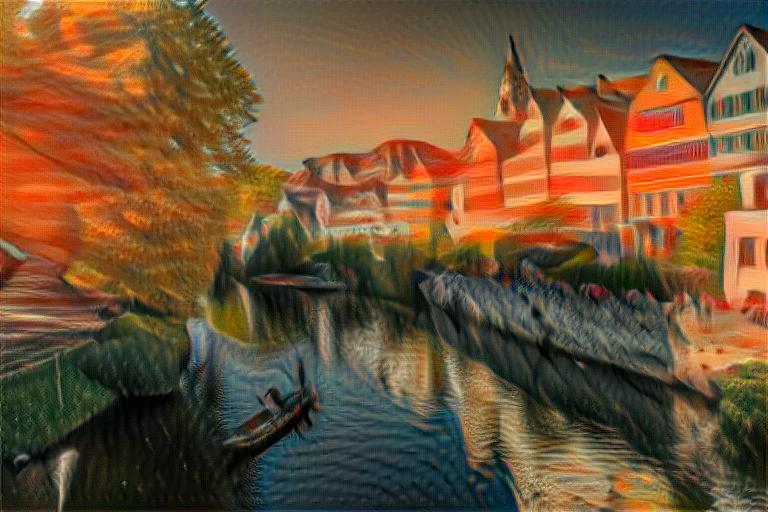
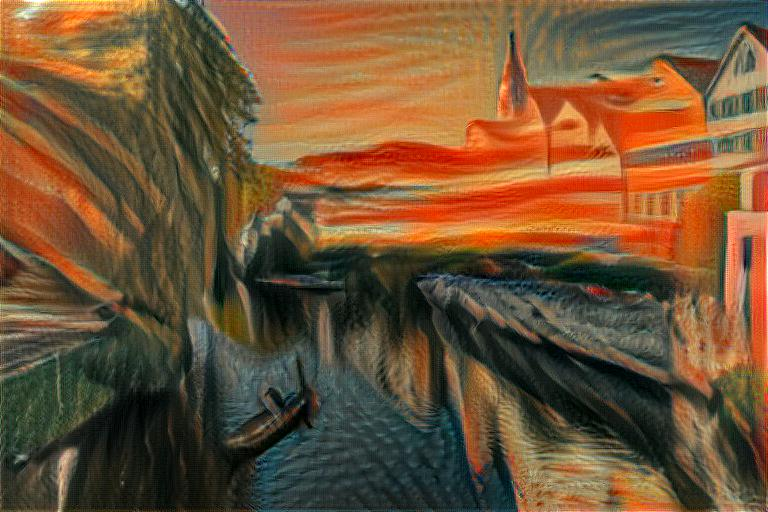
more

diff --git a/assets/rnst/js/banner-slider.js b/assets/rnst/js/banner-slider.js
@@ -1,28 +1,42 @@
 (function() {
 
+// Initialize slider
+var currentStyle = 'starry';
+
+const styleTransferSliderDiv = document.getElementById("banner-slider");
+
+function refreshSlider() {
+  while (styleTransferSliderDiv.firstChild) {
+      styleTransferSliderDiv.removeChild(styleTransferSliderDiv.firstChild);
+  }
+  const imgPath = '/images/rnst/style-transfer/' + 'banner_' + currentStyle + '_robust.jpg';
+  new juxtapose.JXSlider('#banner-slider',
+      [
+          {
+              src: '/images/rnst/style-transfer/banner_scream_nonrobust.jpg',
+              label: 'Non-robust ResNet50'
+          },
+          {
+              src: imgPath,
+              label: 'Robust ResNet50'
+          }
+      ],
+      {
+          animate: true,
+          showLabels: true,
+          showCredits: false,
+          startingPosition: "50%",
+          makeResponsive: true
+  });
+}
+
+refreshSlider();
+
 $("#banner-style-select").imagepicker({
   changed: function(oldVal, newVal, event) {
     currentStyle = newVal;
     refreshSlider();
   }
-});
-new juxtapose.JXSlider('#banner-slider',
-    [
-        {
-            src: '/images/rnst/style-transfer/banner_scream_nonrobust.jpg', // TODO: Might need to use absolute_url?
-            label: 'Non-robust ResNet50'
-        },
-        {
-            src: '/images/rnst/style-transfer/banner_woman_robust.jpg',
-            label: 'Robust ResNet50'
-        }
-    ],
-    {
-        animate: true,
-        showLabels: true,
-        showCredits: false,
-        startingPosition: "50%",
-        makeResponsive: true
 });
 
 })()

diff --git a/_posts/2019-06-25-robust-neural-style-transfer.md b/_posts/2019-06-25-robust-neural-style-transfer.md
@@ -16,10 +16,10 @@ date:   2019-06-15
 
 <div style="margin-bottom: 30px;">
 <select id="banner-style-select" class="image-picker">
+    <option data-img-src="{{ '/images/rnst/thumbnails/starrynight.jpg' | absolute_url }}" value="starry"></option>
     <option data-img-src="{{ '/images/rnst/thumbnails/scream.jpg' | absolute_url }}" value="scream"></option>
     <option data-img-src="{{ '/images/rnst/thumbnails/woman.jpg' | absolute_url }}" value="woman"></option>
     <option data-img-src="{{ '/images/rnst/thumbnails/picasso.jpg' | absolute_url }}" value="picasso"></option>
-    <option data-img-src="{{ '/images/rnst/thumbnails/starrynight.jpg' | absolute_url }}" value="starry"></option>
 </select>
 <div id="banner-slider" class="align-center"></div>
 </div>
